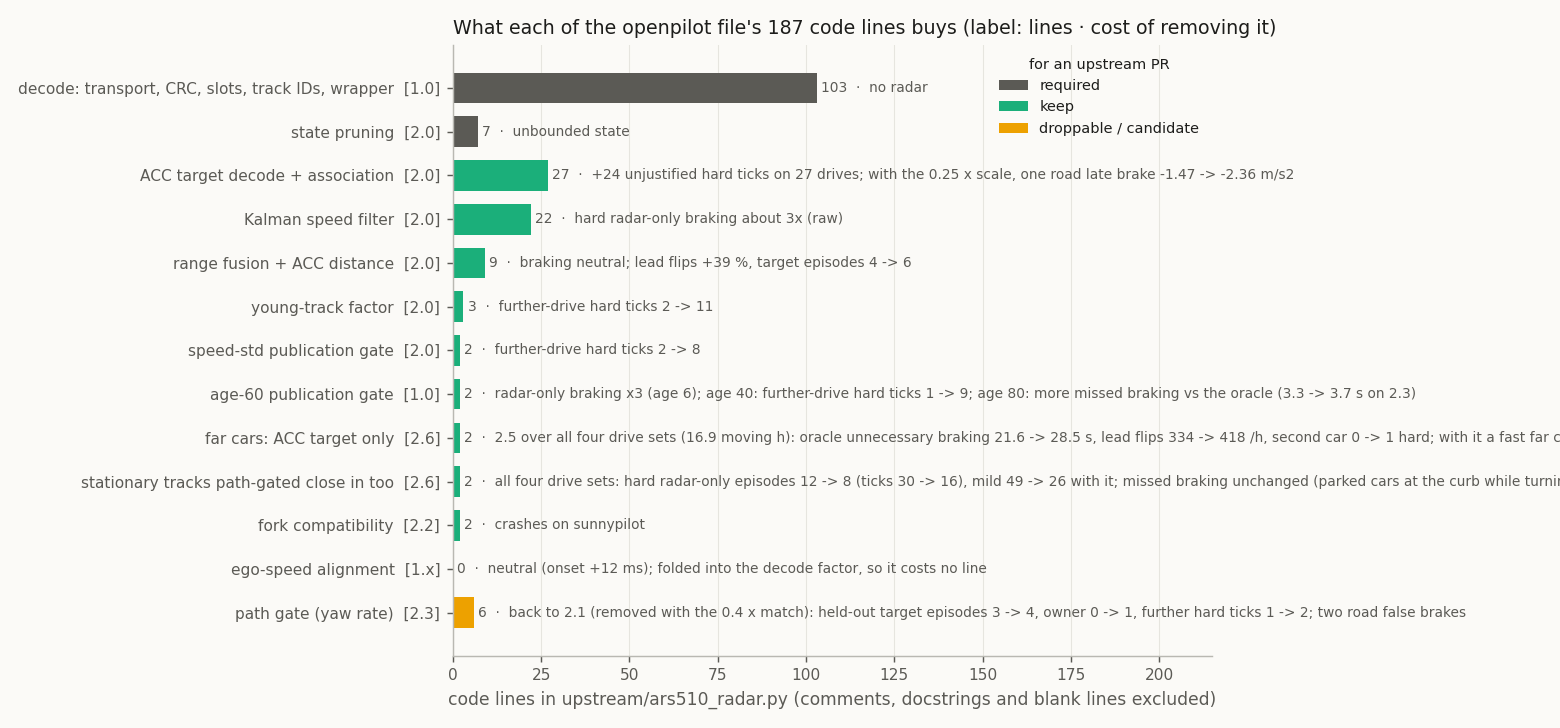
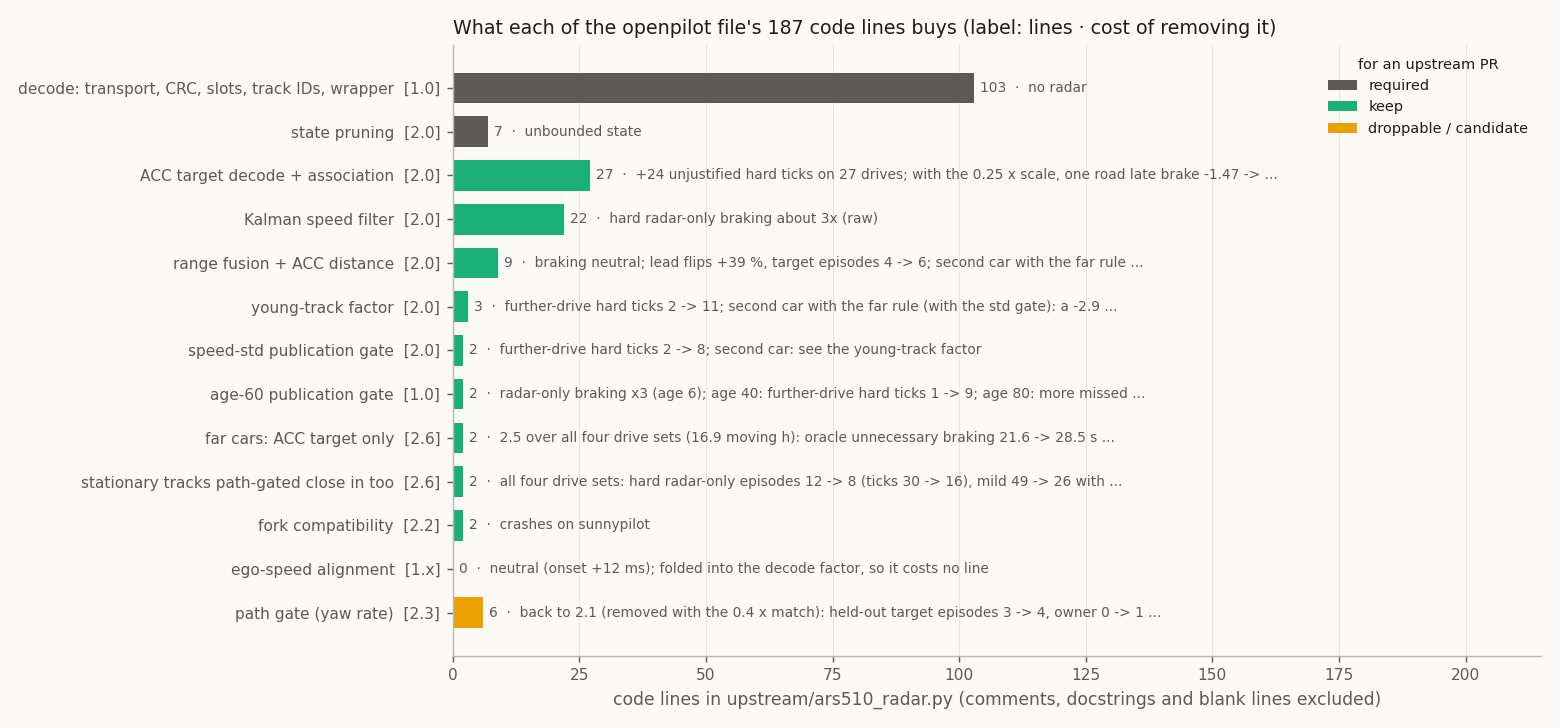
docs, figures: the acc profile on never-fitted drives, every drive and close cut-ins; stale figures regenerated (#116)
* docs, data: ACC target alone on every never-fitted drive (32 routes, 4.54 moving h): less unnecessary braking than fused 2.6

* docs, data: ACC target alone over every drive (94 routes): fewer lead flips, never significantly worse than fused 2.6

* docs, figures: acc on close cut-ins, never-fitted and every drive; regenerated stale guide figures

- guide_acc_target_parser.png: adds lead flips over every drive, unnecessary braking on never-fitted drives and
  braking on 120 close cut-ins by a faster car
- guide_parts_ledger.png: regenerated (its summary had changed); long labels shortened
- docs/11: the acquisition delay (0.8-1 s) applies to far closings beyond 60 m; close cut-ins are picked after a
  median 0.2 s and brake as with fused
- acc_target_parser.json: close_cut_ins

---------

diff --git a/tools/make_guide_figures.py b/tools/make_guide_figures.py
@@ -204,7 +204,8 @@ def parts_ledger() -> None:
   fig, ax = plt.subplots(figsize=(12, 5.6)); y = np.arange(len(parts))[::-1]
   for yi, p in zip(y, parts):
     s = status(p["upstream"]); ax.barh(yi, p["code_lines"], 0.7, color=colors[s])
-    ax.text(p["code_lines"] + 1.2, yi, f"{p['code_lines']}  ·  {p['without']}", va="center", fontsize=7.6, color=INK2)
+    w = p["without"] if len(p["without"]) <= 95 else p["without"][:p["without"].rfind(" ", 0, 93)].rstrip(",;:") + " ..."  # full text: docs/10
+    ax.text(p["code_lines"] + 1.2, yi, f"{p['code_lines']}  ·  {w}", va="center", fontsize=7.6, color=INK2)
   ax.set_yticks(y, [f"{_short(p['part'])}  [{p['since'].split(' ')[0]}]" for p in parts], fontsize=8.5)
   ax.set_xlim(0, 215); ax.set_xlabel("code lines in upstream/ars510_radar.py (comments, docstrings and blank lines excluded)")
   used = {status(p["upstream"]) for p in parts}
@@ -264,15 +265,16 @@ def far_rule() -> None:
 
 
 def acc_target_parser() -> None:
-  """The ACC target alone against 2.6: file size and braking outcomes over every drive set, from acc_target_parser.json."""
+  """The ACC target alone against 2.6, from acc_target_parser.json: file size; braking over every drive set; lead flips
+  over every drive; unnecessary braking on drives never used for fitting; close cut-ins by a faster car."""
   J = json.loads((SUM / "acc_target_parser.json").read_text()); F, A = J["file_size"], J["by_version_and_set"]
-  M = J["hard_and_mild_moving_vs_standstill"]; ALL = "all sets"
+  M = J["hard_and_mild_moving_vs_standstill"]; ALL = "all sets"; E, H, C = J["every_drive"], J["drives_not_used_for_development_pooled"], J["close_cut_ins"]["faster_car"]
   col = {"vision only": VIS, "2.6": V23, "ACC target only": S4}
-  fig, axs = plt.subplots(1, 5, figsize=(13, 3.6), gridspec_kw={"width_ratios": [1.5, 1, 1, 1, 1]})
+  fig, axs = plt.subplots(2, 4, figsize=(13, 6.6)); axs = axs.ravel()
   ms = ["code_lines", "constants", "state_attributes", "conditions"]; x = np.arange(len(ms))
-  for k, (v, dx) in enumerate((("2.6", -0.2), ("ACC target only", 0.2))):
-    b = axs[0].bar(x + dx, [F[v][m] for m in ms], 0.38, color=col[v], label=v)
-    for bi, m in zip(b, ms):
+  for v, dx in (("2.6", -0.2), ("ACC target only", 0.2)):
+    bars = axs[0].bar(x + dx, [F[v][m] for m in ms], 0.38, color=col[v], label=v)
+    for bi, m in zip(bars, ms):
       axs[0].text(bi.get_x() + bi.get_width() / 2, F[v][m] + 2, F[v][m], ha="center", fontsize=7.5, color=INK)
   axs[0].set_xticks(x, ["code\nlines", "constants", "state", "conditions"]); axs[0].legend(fontsize=8)
   axs[0].set_title("openpilot file", loc="left", fontsize=10)
@@ -284,20 +286,43 @@ def acc_target_parser() -> None:
         ax.bar(i, st, 0.6, bottom=mv, color="white", edgecolor=col[v], hatch="////")
       ax.text(i, mv + st + 0.5, f"{mv}" + (f" + {st}" if st else ""), ha="center", fontsize=8, color=INK)
     ax.set_xticks([0, 1], ["2.6", "ACC target\nonly"]); ax.set_ylim(0, max(M[v][kind]["moving"] + M[v][kind]["standstill"] for v in M if v != "note") * 1.3)
-    ax.set_title(f"{kind} radar-only episodes", loc="left", fontsize=10)
+    ax.set_title(f"{kind} radar-only episodes, all sets", loc="left", fontsize=10)
   axs[1].text(1.35, M["ACC target only"]["hard"]["moving"] + 2, "hatched:\nholds at\nstandstill", fontsize=7, color=INK2, va="bottom")
   axs[1].set_xlim(-0.5, 2.1)
-  for ax, m, t in ((axs[3], "unnecessary_s", "unnecessary braking (oracle)"), (axs[4], "missed_s", "missed braking (oracle)")):
+  fl = [E["flips"]["fused_2_6"] / E["moving_h"], E["flips"]["N1"] / E["moving_h"]]
+  axs[3].bar([0, 1], fl, 0.6, color=[col["2.6"], col["ACC target only"]])
+  for i, yi in enumerate(fl):
+    axs[3].text(i, yi + 5, f"{yi:.0f}", ha="center", fontsize=8, color=INK)
+  lo, hi = E["flips"]["ci95"]
+  axs[3].set_xticks([0, 1], ["2.6", "ACC target\nonly"]); axs[3].set_ylabel("per moving h")
+  axs[3].set_title(f"lead flips, every drive ({E['routes']} routes)", loc="left", fontsize=10)
+  axs[3].text(0.5, max(fl) * 0.45, f"{E['flips']['diff_per_moving_h']:+.0f} /h\n[{lo:+.0f}, {hi:+.0f}]", ha="center", fontsize=8, color=INK2)
+  for ax, m, t in ((axs[4], "unnecessary_s", "unnecessary braking, all sets"), (axs[5], "missed_s", "missed braking, all sets")):
     vs = ["vision only", "2.6", "ACC target only"]; y = [A[v][ALL][m] for v in vs]
     ax.bar(range(3), y, 0.6, color=[col[v] for v in vs])
     for i, yi in enumerate(y):
       ax.text(i, yi + 1, f"{yi:g}", ha="center", fontsize=8, color=INK)
-    ax.set_xticks(range(3), ["vision\nonly", "2.6", "ACC target\nonly"]); ax.set_ylabel("s"); ax.set_title(t, loc="left", fontsize=10)
+    ax.set_xticks(range(3), ["vision\nonly", "2.6", "ACC target\nonly"]); ax.set_ylabel("oracle s"); ax.set_title(t, loc="left", fontsize=10)
+  un = [H["unn"]["fused_2_6"], H["unn"]["N1"]]; lo, hi = H["unn"]["ci95"]
+  axs[6].bar([0, 1], un, 0.6, color=[col["2.6"], col["ACC target only"]])
+  for i, yi in enumerate(un):
+    axs[6].text(i, yi + 0.3, f"{yi:g}", ha="center", fontsize=8, color=INK)
+  axs[6].set_xticks([0, 1], ["2.6", "ACC target\nonly"]); axs[6].set_ylabel("oracle s")
+  axs[6].set_title(f"unnecessary braking, never-fitted\ndrives ({H['routes']} routes, {H['moving_h']:.1f} moving h)", loc="left", fontsize=10)
+  axs[6].text(0.5, max(un) * 0.45, f"{H['unn']['diff_per_moving_h']:+.2f} s/h\n[{lo:+.2f}, {hi:+.2f}]", ha="center", fontsize=8, color=INK2)
+  vs = ["vision only", "2.6", "ACC target only"]
+  for k, (thr, dx) in enumerate((("brake_below_minus_0_5", -0.2), ("brake_below_minus_1", 0.2))):
+    y = [C[v][thr] for v in vs]
+    axs[7].bar(np.arange(3) + dx, y, 0.38, color=[col[v] for v in vs], alpha=1.0 if k == 0 else 0.55)
+    for i, yi in enumerate(y):
+      axs[7].text(i + dx, yi + 0.5, yi, ha="center", fontsize=7.5, color=INK)
+  axs[7].set_xticks(range(3), ["vision\nonly", "2.6", "ACC target\nonly"]); axs[7].set_ylabel("cut-ins")
+  axs[7].set_title(f"{C['n']} close cut-ins by a faster car:\nbraking below -0.5 / -1 m/s²", loc="left", fontsize=10)
   for ax in axs:
     ax.yaxis.grid(True, color=GRID); ax.set_axisbelow(True)
   d = J["disagreement"]["share_of_moving_time_differing_by_more_than_0.3_mps2"]
-  fig.suptitle(f"Every drive set, {A['ACC target only'][ALL]['moving_h']:.1f} moving h: the two files ask for different accelerations (> 0.3 m/s²) on {d * 100:.2f} % of moving time",
-               x=0.01, ha="left", fontsize=9, color=INK2)
+  fig.suptitle(f"All sets = {A['ACC target only'][ALL]['moving_h']:.1f} moving h of replays; the two files ask for different accelerations (> 0.3 m/s²) on {d * 100:.2f} % of it. "
+               "Brackets: route-bootstrap 95 % interval of the difference.", x=0.01, ha="left", fontsize=9, color=INK2)
   fig.tight_layout(); fig.savefig(OUT / "guide_acc_target_parser.png", dpi=130); plt.close(fig)
 
 

diff --git a/data/README.md b/data/README.md
@@ -62,7 +62,7 @@ expanded 700-segment inventories, 20 held-out replay routes and closed-loop driv
 | [06 Accuracy](../docs/06_accuracy.md) | `figure_numbers` (velocity MSE, range walks; written by `tools/make_analysis_figures.py`), `camera_semantic_correction` (three-cornered hat, sizes), `far_range_camera_correction`, `far_range_distance`, `camera_identity_correction`, `review_followup` (stopped targets), `radar_only_scales`, `lane_peaks`, `lateral_units`, `native_speed_alignment` (fixed speed conventions against the dependent ACC witness; empirical setting and physical-calibration scope), `encoding_calibration`, `second_unit_noise` (object-list and ACC-target speed noise on a second radar unit against the owner's) |
 | [07 Velocity excursions](../docs/07_velocity_excursions.md) | `acc_unit_recompute` (error per `240\|7` code and excursion incidence at 0.125 m/s per code), `excursion_sigma_scale` (the same analysis at the earlier 0.1 unit: per-code curves for the figure, signal scan, state model), `frame_trust_classifier`, `waveform_source`, `video_truth` (optical reference), `jitter_problem_figures` (real-drive census, roughness), `jitter_source_and_interface_limit` |
 | [08 openpilot integration](../docs/08_openpilot_integration.md) | `road_v21` (fused 2.1.0 on the road and issue #66), `openpilot_integration_replay`, `driver_agreement_preregistered` (the pre-registered radar-vs-vision test), `radard_vision_fusion` (the optional radard patch) |
-| [10 Research directions](../docs/10_research_directions.md) | `openpilot_file_parts` (each part of the openpilot file: code lines, cost of removing it, upstream status), `stock_acc_law` (Toyota's 0x343 command against its ACC target on two cars: fitted law, set-speed cap, far-lead response), `acc_target_parser` (the ACC target alone as the openpilot file: size, every drive set, ablations, stock-ACC span), `radard_side_options` (the radar's acceleration, vision fusion and per-point variance in a patched radard) |
+| [10 Research directions](../docs/10_research_directions.md) | `openpilot_file_parts` (each part of the openpilot file: code lines, cost of removing it, upstream status), `stock_acc_law` (Toyota's 0x343 command against its ACC target on two cars: fitted law, set-speed cap, far-lead response), `acc_target_parser` (the ACC target alone as the openpilot file: size, every drive set, ablations, stock-ACC spans on two cars, never-fitted drives, every drive, close cut-ins), `radard_side_options` (the radar's acceleration, vision fusion and per-point variance in a patched radard) |
 | [11 Profiles compared](../docs/11_profiles_compared.md) | `profiles_vs_vision` (every profile against vision only on the 27 replay drives) |
 | [12 Kalman speed filter](../docs/12_kalman_filter.md) | `fused_filter` (parameters, ablations and combinations of fused 2.0, radard cascade, ACC weight under the old ACC unit), `acc_weight` (the ACC target's weight, 0.3 m/s since 2.5), `far_acc_only` (beyond 60 m only the ACC target's track, since 2.6; all drive sets), `hard_braking_review`, `tracker_association`, `lead_choice_guards` (the 0.4 x ACC match and the path gate; 2.3 and 2.4 replays), `oracle_reference`, `kalman_variants`, `kalman_response`, `summary_owner_case`, `second_car_replay` (2.5 and the slim variants, including the 2.6 far rule, on a second car's 8.8 h, gates fixed before the runs) |
 | [13 Car-bus messages](../docs/13_car_bus_messages.md) | `stock_acc_law` (0x343 through a car-bus filter board, standstill hold), `radar_car_bus_messages`, `target_366_coding`, `target_366_coverage`, `target_366_speed_domain` |

diff --git a/docs/10_research_directions.md b/docs/10_research_directions.md
@@ -263,7 +263,17 @@ Replayed over every drive set (16.9 moving h, 62 routes, unchanged radard and pl
   planner (0.35 m/s² more braking where Toyota holds at its set speed), not the radar point.
 - **No filter on top:** the ACC target's speed does not lag its own distance (best lag −0.06 s, gain 1.00), and its
   fast noise (0.027 m/s) is a fifth of its 0.125 m/s code step, so a filter could only add delay.
-- **On drives never used for development** (1.98 moving h): 0 hard episodes and 1 oracle-confirmed mild, as 2.6.
+- **On drives never used for development or tuning** (32 routes of both cars, 4.54 moving h) it brakes unnecessarily less
+  than 2.6: 9.2 against 13.0 oracle seconds (−0.84 s per moving hour, route bootstrap −1.72…−0.13). Hard and mild
+  radar-only braking are equal (1 against 0, a correct hold at 0.3 m/s 1.3 m from an object; 10 against 9), and braking
+  starts earlier on real closings (−0.020 against −0.008 s vs vision).
+- **Close cut-ins** (the lead jumps at least 5 m closer to within 35 m; 450 in all drives): the radar's ACC target moves
+  to the cut-in car after a median 0.2 s (0.3 s for a faster car). On the 120 where that car is faster than ego, `acc` and 2.6 never differ by
+  more than 0.3 m/s² (braking below −0.5 m/s² in 28 against 27, below −1 in 14 against 14; vision only 29 / 14).
+- **Over every drive** (94 routes, 21.45 moving h; it has no fitted constant, while 2.6 was tuned on most of them) it is
+  never significantly worse than 2.6 and has fewer lead flips (−22 per moving hour, −36…−7). While moving it has 5 hard
+  and 31 mild radar-only episodes against 8 and 36, 28.4 against 35.0 s of unnecessary and 22.9 against 20.3 s of missed
+  braking (all route-bootstrap intervals include zero).
 - **On 26 owner routes held out from every replay** (2.56 moving h):
   - unnecessary braking 7.7 against 2.6's 11.4 s, and lead flips 323 against 345 per hour (both route-bootstrap CIs
     exclude zero);

diff --git a/docs/11_profiles_compared.md b/docs/11_profiles_compared.md
@@ -122,7 +122,7 @@ What the radar adds, by profile:
 | vision only | smooth; braking follows the camera alone | camera distance at range; closings through curves or far away seen later than the radar sees them |
 | `raw` | earliest reaction to real slowdowns (−0.15 s vs vision) | the most radar-only braking (1.75 / h, over a third with the driver on the gas): occasional sharp brakes on false closings beyond 40 m |
 | `fused` | closest to vision in feel, radar-only braking gone, as early as vision on average, one speed state | the head start over vision is small on average; 187 lines with tuned gates |
-| `acc` | 33 lines, nothing tuned; uses the radar the way Toyota's ACC does; lowest jerk and fewest flips in replay; slightly earlier than vision | a cut-in or fast far closing reaches the planner through the camera until the radar picks the car (~0.75-1 s); holds at standstill behind close objects; no road miles yet |
+| `acc` | 33 lines, nothing tuned; uses the radar the way Toyota's ACC does; lowest jerk and fewest flips in replay; slightly earlier than vision | a fast closing beyond 60 m reaches the planner through the camera until the radar picks the car (0.8-1 s later; `fused` publishes only the ACC target there too); close cut-ins are picked after a median 0.2 s (0.3 s for a faster car) and brake as with `fused` ([10](10_research_directions.md#the-acc-target-alone--candidate)); holds at standstill behind close objects; no road miles yet |
 
 ## Assumptions and limits
 
